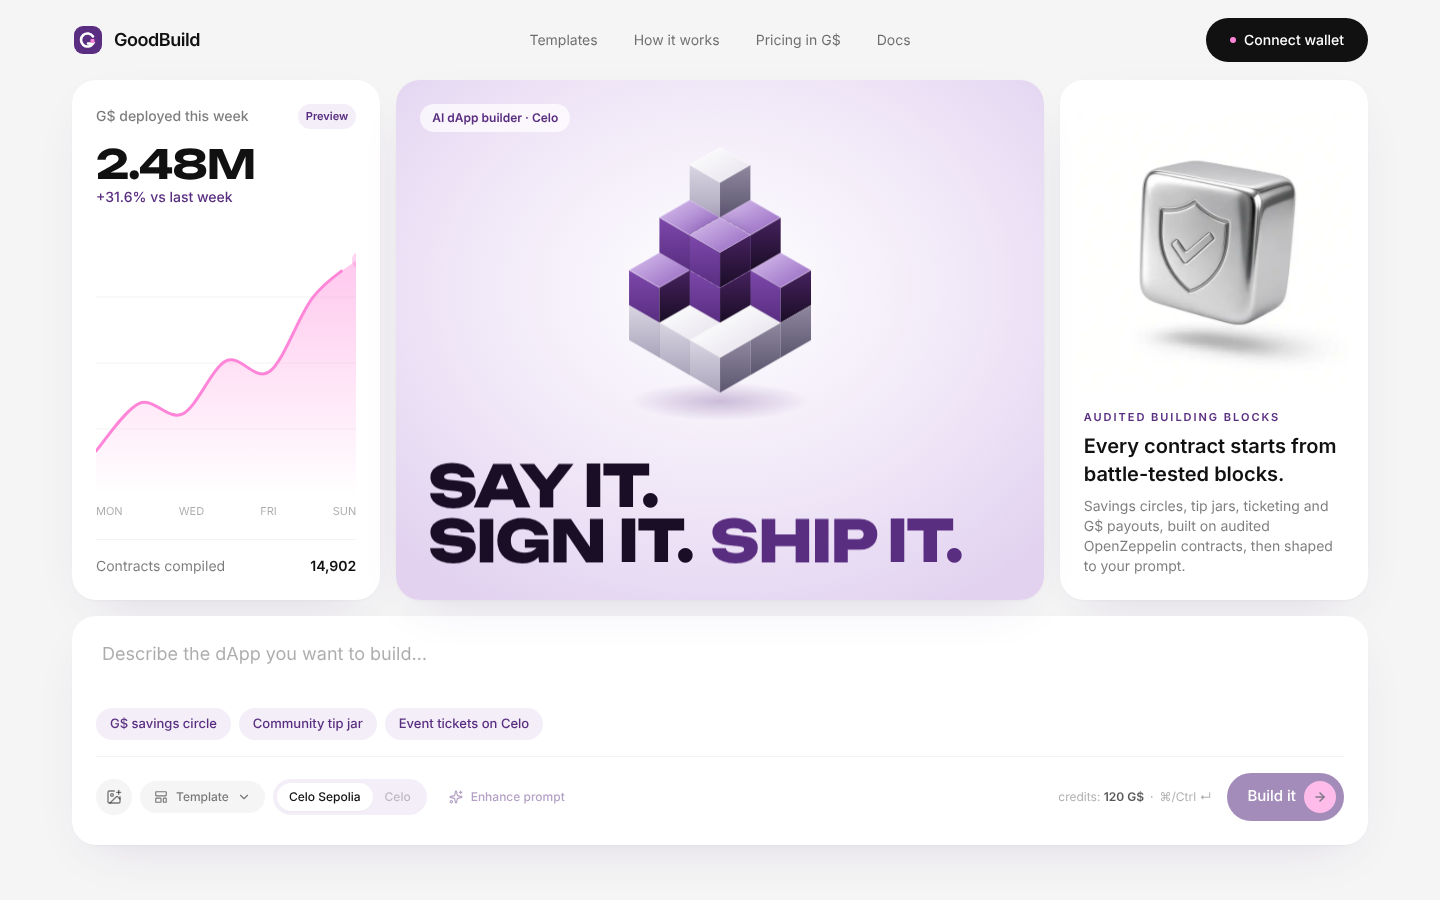
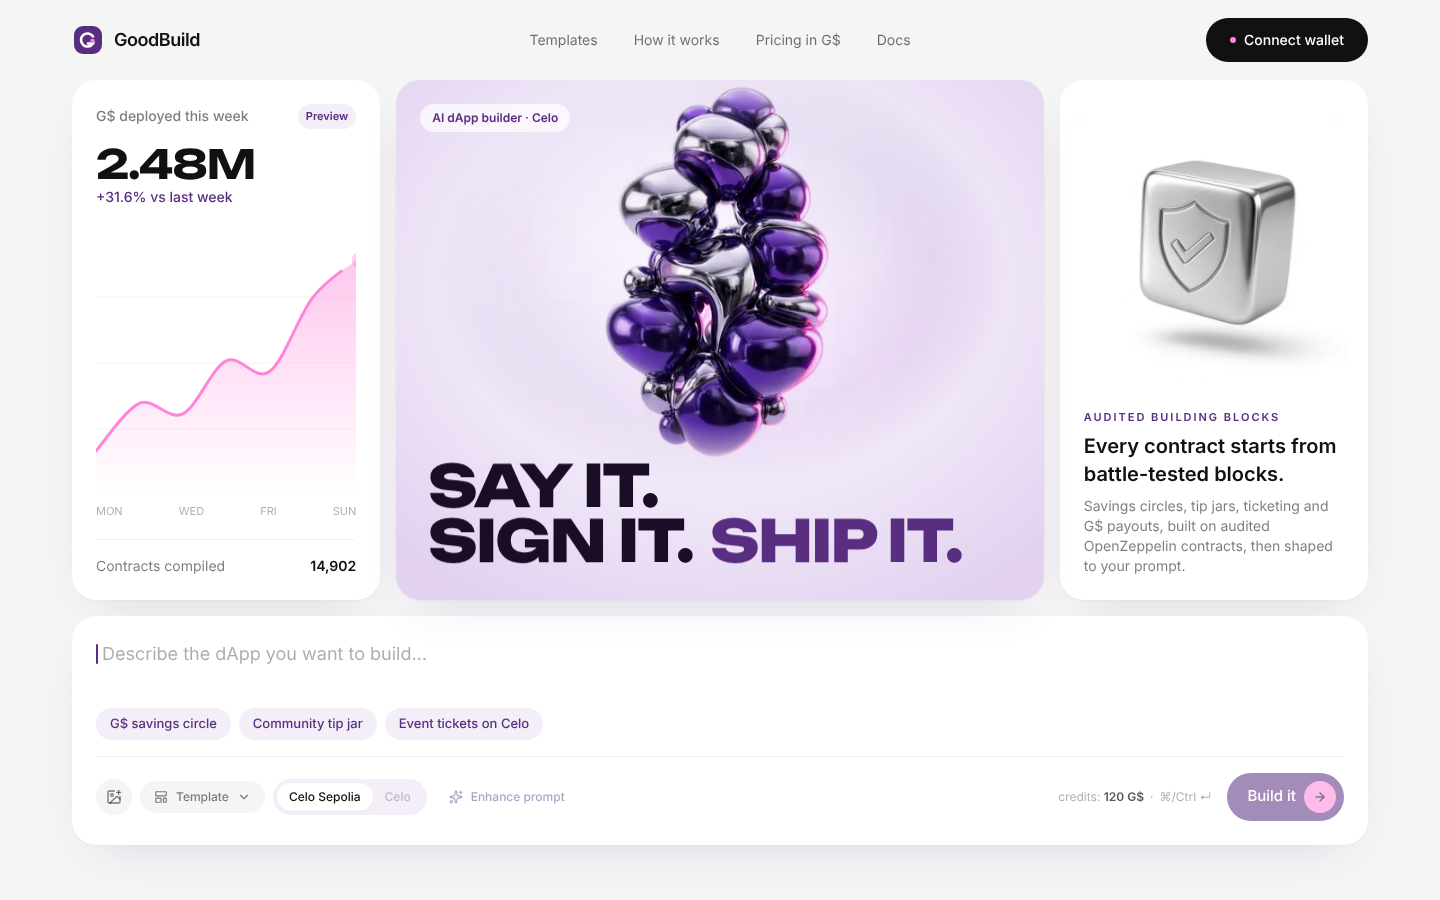
M1: restore hero-b.jpg as the hero render
- Hero card uses design/landing/assets/hero-b.jpg (radial mask, mix-blend-multiply,
  6s bob) as in design/landing/index.html
- Remove the code-drawn block stack and its snap animation
- DESIGN_SYSTEM §8.1 marked dropped by the user; Q29 resolved

Claude-Session: https://claude.ai/code/session_015A7WfFETcd2wL5orSKjoZY

Changed region(s): [[0.4062, 0.0933, 0.5938, 0.5289]]

diff --git a/src/components/landing/hero-card.tsx b/src/components/landing/hero-card.tsx
@@ -1,33 +1,42 @@
+import Image from "next/image";
+
 import BlurText from "@/components/react-bits/BlurText";
-import { BuildingBlocks } from "@/components/landing/building-blocks";
+import heroRender from "../../../public/assets/hero-b.jpg";
+
+const heroMask = "radial-gradient(closest-side, #000 70%, transparent 100%)";
 
 /**
- * Centre bento card: radial violet gradient, the "building" visual and the display
- * headline. React Bits (BlurText) is used here only, per DESIGN_SYSTEM §5.
+ * Centre bento card: radial violet gradient, the chrome/violet hero render
+ * (design/landing/assets/hero-b.jpg) and the display headline, as in
+ * design/landing/index.html. React Bits (BlurText) is used here only (DESIGN_SYSTEM §5).
  */
 export function HeroCard() {
   return (
     <section
       aria-labelledby="hero-title"
-      className="relative isolate flex min-h-[460px] flex-col overflow-hidden rounded-card shadow-card lg:min-h-0"
+      className="relative isolate min-h-[460px] overflow-hidden rounded-card shadow-card sm:min-h-[520px] lg:min-h-0"
       style={{ background: "radial-gradient(70% 70% at 50% 40%, #FFFFFF 0%, #EFE6F7 60%, #E2D2F0 100%)" }}
     >
+      <div className="absolute inset-x-0 -top-4 flex justify-center">
+        <Image
+          src={heroRender}
+          alt=""
+          priority
+          sizes="(min-width: 1024px) 575px, 90vw"
+          className="h-[320px] w-auto animate-bob mix-blend-multiply motion-reduce:animate-none sm:h-[400px] lg:h-[430px]"
+          style={{ WebkitMaskImage: heroMask, maskImage: heroMask }}
+        />
+      </div>
+
       <span className="absolute top-6 left-6 z-10 rounded-full bg-white/70 px-3 py-1.5 text-xs font-semibold text-violet">
         AI dApp builder · Celo
       </span>
 
-      <div className="flex flex-1 items-start justify-center px-6 pt-6 pb-0">
-        <BuildingBlocks className="h-[280px] w-auto max-w-full animate-bob motion-reduce:animate-none sm:h-[320px] lg:h-[340px]" />
-      </div>
-
-      <div className="p-6 pt-0 sm:p-8 sm:pt-0">
+      <div className="absolute inset-x-0 bottom-0 p-6 sm:p-8">
         <h1 id="hero-title" className="sr-only">
           Say it. Sign it. Ship it.
         </h1>
-        <div
-          aria-hidden
-          className="display text-[40px] font-extrabold text-violet-ink sm:text-[52px] xl:text-[58px]"
-        >
+        <div aria-hidden className="display text-[40px] font-extrabold text-violet-ink sm:text-[52px] xl:text-[58px]">
           <BlurText text="Say it." trigger="load" delay={120} />
           <div className="flex flex-wrap gap-x-[0.3em]">
             <BlurText text="Sign it." trigger="load" delay={120} />

diff --git a/src/app/globals.css b/src/app/globals.css
@@ -42,7 +42,6 @@
   --animate-pulse-dot: gb-pulse 1.6s ease-in-out infinite;
   --animate-caret: gb-caret 1s steps(1) infinite;
   --animate-draw: gb-draw 2.4s var(--ease-gb) forwards;
-  --animate-snap: gb-snap 6s var(--ease-gb) infinite;
 
   @keyframes gb-bob {
     50% { transform: translateY(-10px); }
@@ -56,15 +55,6 @@
   @keyframes gb-draw {
     from { stroke-dashoffset: var(--gb-dash, 900); }
     to { stroke-dashoffset: 0; }
-  }
-  /* A block drops in, snaps, holds, then resets for the next loop. */
-  @keyframes gb-snap {
-    0% { transform: translateY(-110px); opacity: 0; }
-    12% { opacity: 1; }
-    32% { transform: translateY(0); opacity: 1; }
-    36% { transform: translateY(-4px); }
-    40%, 88% { transform: translateY(0); opacity: 1; }
-    100% { transform: translateY(0); opacity: 0; }
   }
 }
 

diff --git a/docs/OPEN_QUESTIONS.md b/docs/OPEN_QUESTIONS.md
@@ -121,6 +121,6 @@
 - Mockups b and c use `#35D07F` for status dots; the token is `success #1F9D6B`.
 - Claude's input: use the token everywhere (M3 onward).
 
-## Q29. Hero "building" image
-- DESIGN_SYSTEM §8.1 asks for a chrome hand placing violet blocks, or blocks snapping into a contract shape. No such asset exists.
-- Claude's input: M1 ships a code-drawn isometric version (chrome and violet blocks, the last one dropping in and snapping into place; no pink, reduced-motion safe). If you want a rendered 3D image like `hero-b.jpg`, it can be generated (e.g. via Figma's image generator, which spends Figma AI credits) and swapped in without layout changes.
+## Q29. Hero "building" image (resolved)
+- DESIGN_SYSTEM §8.1 asked to replace the hero render with a "building" image. M1 first shipped a code-drawn block stack.
+- Resolved 4 Nov 2026 by the user: keep the original render `design/landing/assets/hero-b.jpg`. §8.1 updated; the SVG version was removed.

diff --git a/docs/DESIGN_SYSTEM.md b/docs/DESIGN_SYSTEM.md
@@ -148,6 +148,6 @@ module.exports = {
 - Display caps for body text or buttons. More than two font families.
 
 ## 8. Known fixes vs the mockup
-1. Replace the abstract blob hero render with a more **"building"** image: a chrome hand placing glowing violet blocks, or blocks snapping into a contract shape, on the same white-to-violet radial gradient.
+1. ~~Replace the hero render with a more "building" image.~~ **Dropped (user, 4 Nov 2026):** keep `design/landing/assets/hero-b.jpg` as the hero render, on the white-to-violet radial gradient.
 2. **Close the gap in the right card:** enlarge the chrome cube and anchor the text to the bottom so there's no dead white space.
 3. **Make the prompt box richer:** add the toolbar described in section 3 (attach, template, network toggle, enhance, credits, send).
